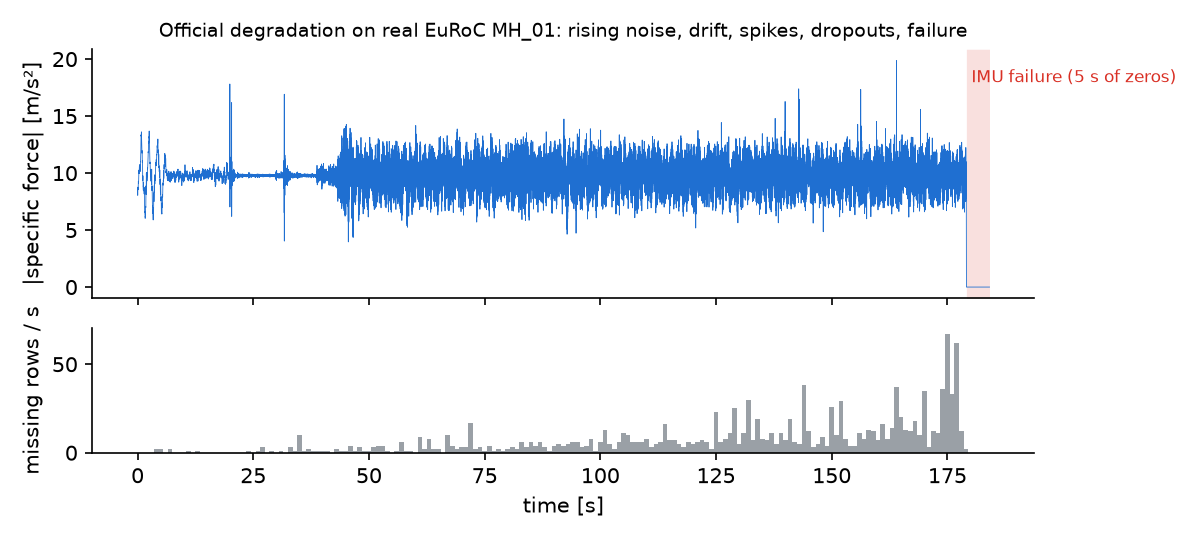
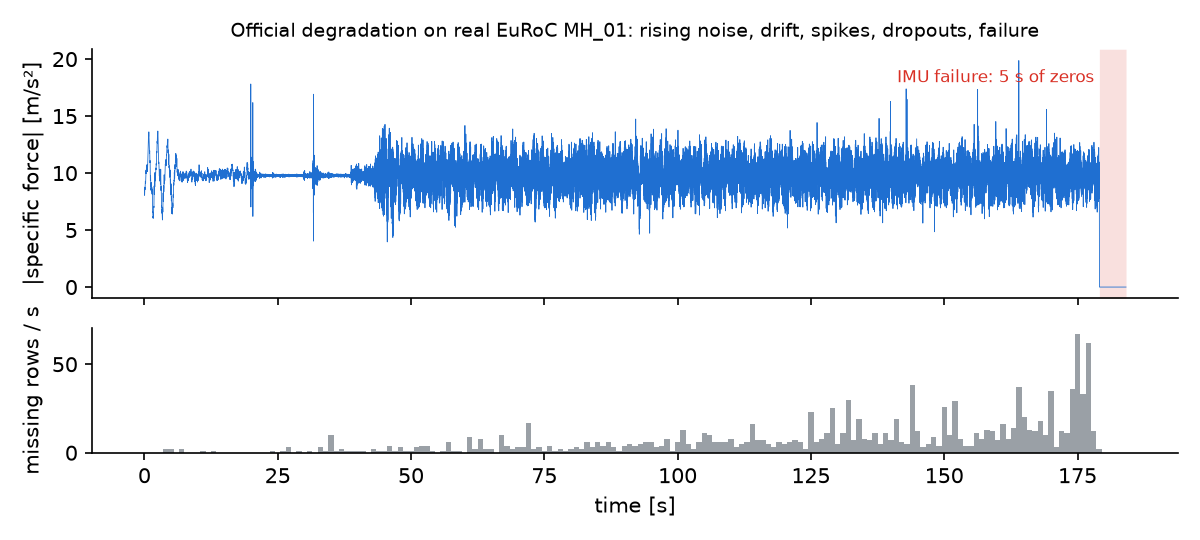
Final report run: README results tables, figures, EXPERIMENTS final entry
Claude-Session: https://claude.ai/code/session_01G7BNNg3ftRAbhvnoAQdgTi

diff --git a/README.md b/README.md
@@ -84,7 +84,42 @@ imu0/data.csv
 ## Results
 
 <!-- RESULTS:BEGIN -->
-RESULTS PENDING FINAL RUN.
+**Rotorcraft (EuRoC MAV), TEST flights MH_02_easy, MH_04_difficult, V1_02_medium, V1_03_difficult, V2_01_easy, V2_03_difficult; 2 scenarios x 3 seeds**
+
+| method | ATE [m] | pre-failure [m] | blind 5 s [m] | dropout [m] | RPE 1 s [m] | RPE 1 s [deg] |
+|---|---|---|---|---|---|---|
+| PathGuard | 2.374 | 2.363 | 2.209 | 2.335 | 0.354 | 0.884 |
+| stand-still | 3.197 | 3.206 | 2.885 | 3.284 | 0.760 | 20.395 |
+| naive integration | 18645 | 17227 | 41282 | 19877 | 636 | 20.395 |
+| legacy C++ v1 | 3.167 | 3.175 | 2.882 | 3.254 | 0.726 | 1.013 |
+
+**Handheld (TUM-VI room), TEST flights TUMVI_room2, TUMVI_room4, TUMVI_room6; 2 scenarios x 3 seeds**
+
+| method | ATE [m] | pre-failure [m] | blind 5 s [m] | dropout [m] | RPE 1 s [m] | RPE 1 s [deg] |
+|---|---|---|---|---|---|---|
+| PathGuard | 0.532 | 0.527 | 0.611 | 0.605 | 0.214 | 2.623 |
+| stand-still | 1.096 | 1.112 | 0.621 | 1.034 | 0.729 | 44.998 |
+| naive integration | 644 | 595 | 1343 | 734 | 19.543 | 44.998 |
+| legacy C++ v1 | 0.987 | 0.999 | 0.621 | 0.948 | 0.606 | 1.966 |
+
+**Ablations (TEST): ATE / blind 5 s [m]**
+
+| configuration | rotorcraft | handheld |
+|---|---|---|
+| full | 2.374 / 2.209 | 0.532 / 0.611 |
+| no rotor-drag velocity | 2.965 / 2.895 | 0.532 / 0.611 |
+| no rest detection (ZUPT/ZARU) | 2.413 / 2.257 | 0.532 / 0.611 |
+| no spike repair | 2.374 / 2.209 | 0.518 / 0.600 |
+| no jamming adaptation | 2.388 / 2.473 | 0.509 / 0.676 |
+| no attitude smoother (filter only) | 2.379 / 2.211 | 0.536 / 0.591 |
+| blind: smoother forecast (no hold) | 2.371 / 2.415 | 0.532 / 0.611 |
+
+**Resources (single thread, CPython 3.13.7)**
+
+| flight | length | ms per 1 s of IMU (budget 20) | heap: estimator data [MB] | heap: incl. interpreter compile of main.py [MB] |
+|---|---|---|---|---|
+| MH_02_easy | 152 s (29480 rows) | 6.86 | 1.85 | 7.82 |
+| TUMVI_room2 | 144 s (27879 rows) | 6.19 | 1.73 | 7.82 |
 <!-- RESULTS:END -->
 
 ## Limitations

diff --git a/EXPERIMENTS.md b/EXPERIMENTS.md
@@ -211,3 +211,14 @@ Literature suggestion for correlated measurement errors: one update per window o
 TRAIN rotor flights x 2 scen, seed 42: every knot 2.464 (BLIND 1.746); every 10 knots, variance x1 3.252,
 x0.3 2.908, x0.1 2.482 (1.741, equivalent to per-knot); every 20, x0.2 3.025. Fourth independent experiment
 (after GM state, drag-bias RW, tighter drag_sig) showing that the slow content of the drag velocity is signal.
+
+## 2026-11-21 — FINAL held-out results (tools/bench/report.py, TEST flights, 2 scen x 3 seeds)
+Rotorcraft (MH_02, MH_04, V1_02, V1_03, V2_01, V2_03): ATE 2.374 (stand-still 3.197, legacy C++ 3.167,
+naive 18645); BLIND 2.209 (2.885); RPE 1 s 0.354 m / 0.884 deg.
+Handheld (TUM room2/4/6): ATE 0.532 (stand-still 1.096, legacy C++ 0.987, naive 644); BLIND 0.611 (0.621).
+Ablations (rotor / handheld ATE): no drag 2.965 / -, no rest 2.413 / -, no spike repair 2.374 / 0.518,
+no jamming adaptation 2.388 / 0.509 (BLIND 2.473 / 0.676), filter only 2.379 / 0.536, rotor blind smoother
+forecast 2.371 (BLIND 2.415). Resources: 6.86 / 6.19 ms per s; estimator heap 1.85 / 1.73 MB; 7.82 MB incl. compile.
+Follow-up on TRAIN handheld (room1/3/5, 2 scen x 3 seeds): repair=0 J 0.5523 -> 0.5495 (-0.5 %), adapt=0 0.6161.
+Decision: keep spike repair (tiny cost on this script's handheld spikes, protection against stronger jamming);
+keep adaptation (clearly better on TRAIN; the TEST ATE dip is within noise and its BLIND is worse).
